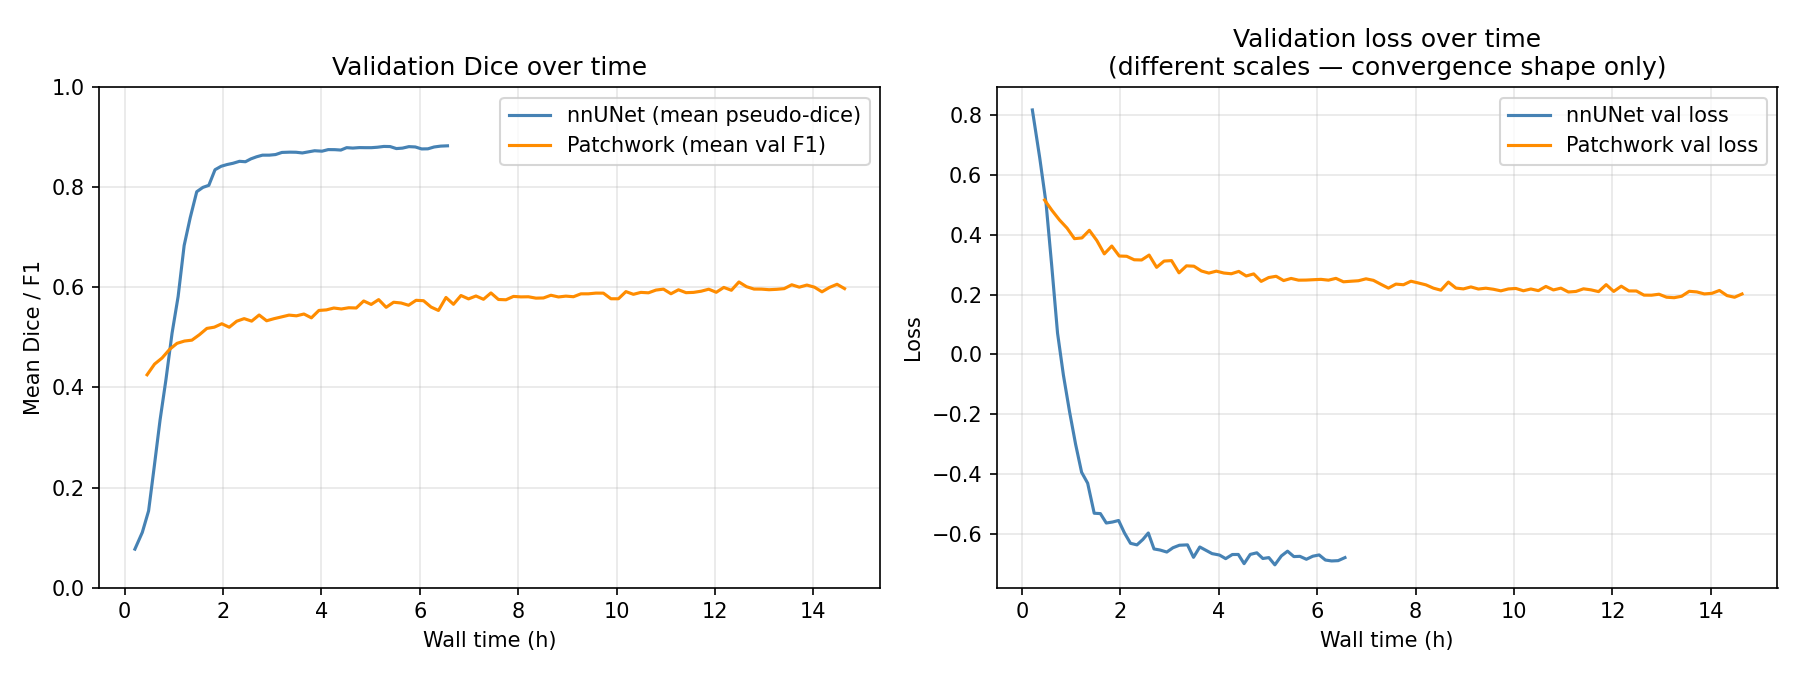
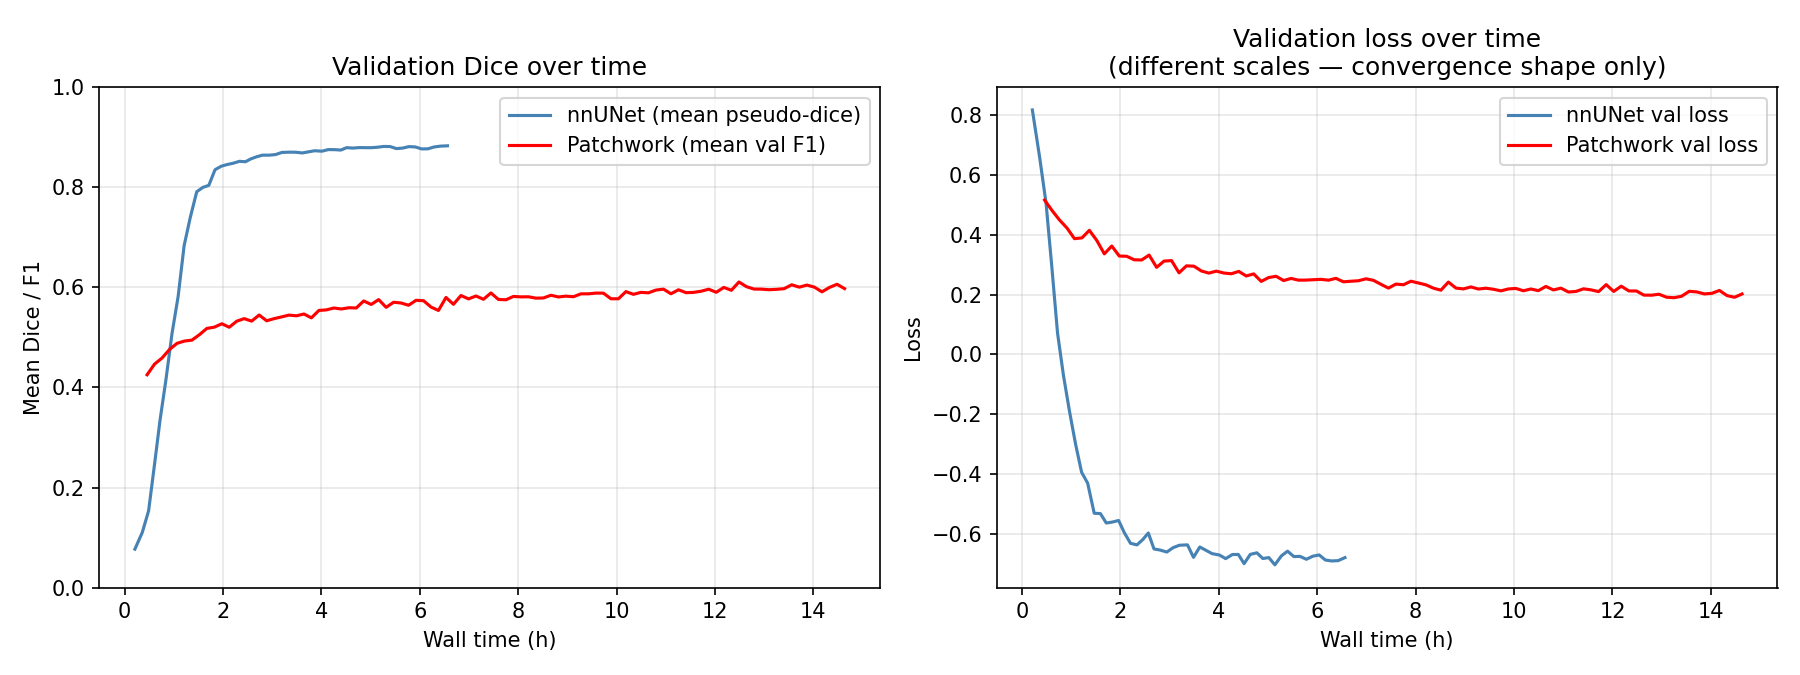
correct learning curve extraction

diff --git a/scripts/nnunet_patchwork_comp/3_extract_learning_curve_patchwork.py b/scripts/nnunet_patchwork_comp/3_extract_learning_curve_patchwork.py
@@ -27,6 +27,7 @@ Example
 
 import argparse
 import json
+import os
 import re
 from pathlib import Path
 
@@ -70,7 +71,8 @@ def load_patchwork_curves(result_dir: Path):
     # Wall time from trainlog.txt. Each log entry covers one training cycle
     # (N_epochs × step_size patches). Expand each entry into per-checkpoint
     # slots, then pad any remainder with the mean per-checkpoint duration.
-    log_text = (result_dir / "trainlog.txt").read_text()
+    log_path = result_dir / "trainlog.txt"
+    log_text = log_path.read_text()
     elapsed  = [float(x) for x in re.findall(r"time elapsed, fitting: ([0-9.]+)", log_text)]
 
     step_size  = int(train_df.index[1] - train_df.index[0])
@@ -82,6 +84,20 @@ def load_patchwork_curves(result_dir: Path):
     # Expand: each log entry contributes equally to its covered checkpoints
     elapsed_per_step = [t / steps_per_entry for t in elapsed for _ in range(steps_per_entry)]
     mean_step = float(np.mean(elapsed_per_step)) if elapsed_per_step else 0.0
+
+    # 'time elapsed, fitting:' only measures neural-net training time. Validation
+    # over full volumes (run every iteration) is not timed in the log. We recover
+    # total actual wall time from filesystem timestamps: on this NFS mount atime
+    # reflects file creation (training start) and mtime the latest write.
+    st = os.stat(log_path)
+    fs_total_s = st.st_mtime - st.st_atime  # end - start
+    fitting_total_s = sum(elapsed_per_step)
+    if fs_total_s > fitting_total_s * 1.05 and len(elapsed_per_step) > 0:
+        # Scale each per-step fitting time so the cumulative total matches real wall time.
+        # This distributes validation overhead proportionally across iterations.
+        scale = fs_total_s / fitting_total_s
+        elapsed_per_step = [t * scale for t in elapsed_per_step]
+        mean_step *= scale
 
     # Pad to full length if log was truncated
     elapsed_full = elapsed_per_step + [mean_step] * max(0, n_iters - len(elapsed_per_step))
@@ -99,10 +115,13 @@ def load_patchwork_curves(result_dir: Path):
         return df
 
     meta = {
-        "n_iter_logged":    n_logged,
-        "n_iter_total":     n_iters,
-        "mean_iter_s":      mean_step,
-        "steps_per_entry":  steps_per_entry,
+        "n_iter_logged":       n_logged,
+        "n_iter_total":        n_iters,
+        "mean_iter_s":         mean_step,
+        "steps_per_entry":     steps_per_entry,
+        "walltime_source":     "fs_timestamps" if fs_total_s > fitting_total_s * 1.05 else "fitting_only",
+        "fitting_total_h":     fitting_total_s / 3600.0,
+        "fs_total_h":          fs_total_s / 3600.0,
     }
     return (
         add_walltime(train_df),
@@ -132,6 +151,11 @@ def main():
 
     print(f"Wrote 4 CSV files to {out_dir}")
     print(f"  Steps:       {train_df.index[0]} → {train_df.index[-1]}  ({len(train_df)} checkpoints)")
+    src = meta["walltime_source"]
+    if src == "fs_timestamps":
+        print(f"  Wall time source: filesystem timestamps (fitting={meta['fitting_total_h']:.1f}h → scaled to {meta['fs_total_h']:.1f}h total)")
+    else:
+        print(f"  Wall time source: fitting time only (no validation overhead detected)")
     if not valid_df.empty:
         n_extrap = int(valid_df["walltime_extrapolated"].sum())
         extrap_note = (f"  ({n_extrap} checkpoints extrapolated from mean iter "

diff --git a/scripts/nnunet_patchwork_comp/3_extract_learning_curve_nnunet.py b/scripts/nnunet_patchwork_comp/3_extract_learning_curve_nnunet.py
@@ -45,10 +45,15 @@ def load_nnunet_curves(result_dir: Path):
     )
     train_losses = [float(x) for x in re.findall(r"train_loss (-?[0-9.]+)", log_text)]
     val_losses   = [float(x) for x in re.findall(r"val_loss (-?[0-9.]+)", log_text)]
-    dice_rows    = [
-        [float(v) for v in row.split(", ")]
-        for row in re.findall(r"Pseudo dice \[([0-9., ]+)\]", log_text)
-    ]
+    _dice_blocks = re.findall(r"Pseudo dice \[(.+?)\]", log_text)
+    dice_rows = []
+    for block in _dice_blocks:
+        # Handle np.float32(...) format (newer nnUNet) and plain float format
+        np_vals = re.findall(r"np\.float32\(([-+]?[0-9]*\.?[0-9]+(?:[eE][-+]?[0-9]+)?)\)", block)
+        if np_vals:
+            dice_rows.append([float(v) for v in np_vals])
+        else:
+            dice_rows.append([float(v) for v in re.findall(r"[-+]?[0-9]*\.?[0-9]+(?:[eE][-+]?[0-9]+)?", block)])
 
     n = min(len(train_losses), len(val_losses), len(dice_rows))
     if n == 0:

diff --git a/scripts/nnunet_patchwork_comp/4_plot_learning_curves.py b/scripts/nnunet_patchwork_comp/4_plot_learning_curves.py
@@ -51,7 +51,7 @@ def main():
     # --- Dice / F1 ---
     ax = axes[0]
     ax.plot(nn_t, nn_dice, label="nnUNet (mean pseudo-dice)", color="steelblue", linewidth=1.5)
-    ax.plot(pw_t, pw_dice, label="Patchwork (mean val F1)",   color="darkorange", linewidth=1.5)
+    ax.plot(pw_t, pw_dice, label="Patchwork (mean val F1)",   color="red", linewidth=1.5)
     ax.set_xlabel("Wall time (h)")
     ax.set_ylabel("Mean Dice / F1")
     ax.set_title("Validation Dice over time")
@@ -62,7 +62,7 @@ def main():
     # --- Loss ---
     ax = axes[1]
     ax.plot(nn_t, nn_loss, label="nnUNet val loss",    color="steelblue", linewidth=1.5)
-    ax.plot(pw_t, pw_loss, label="Patchwork val loss", color="darkorange", linewidth=1.5)
+    ax.plot(pw_t, pw_loss, label="Patchwork val loss", color="red", linewidth=1.5)
     ax.set_xlabel("Wall time (h)")
     ax.set_ylabel("Loss")
     ax.set_title("Validation loss over time\n(different scales — convergence shape only)")